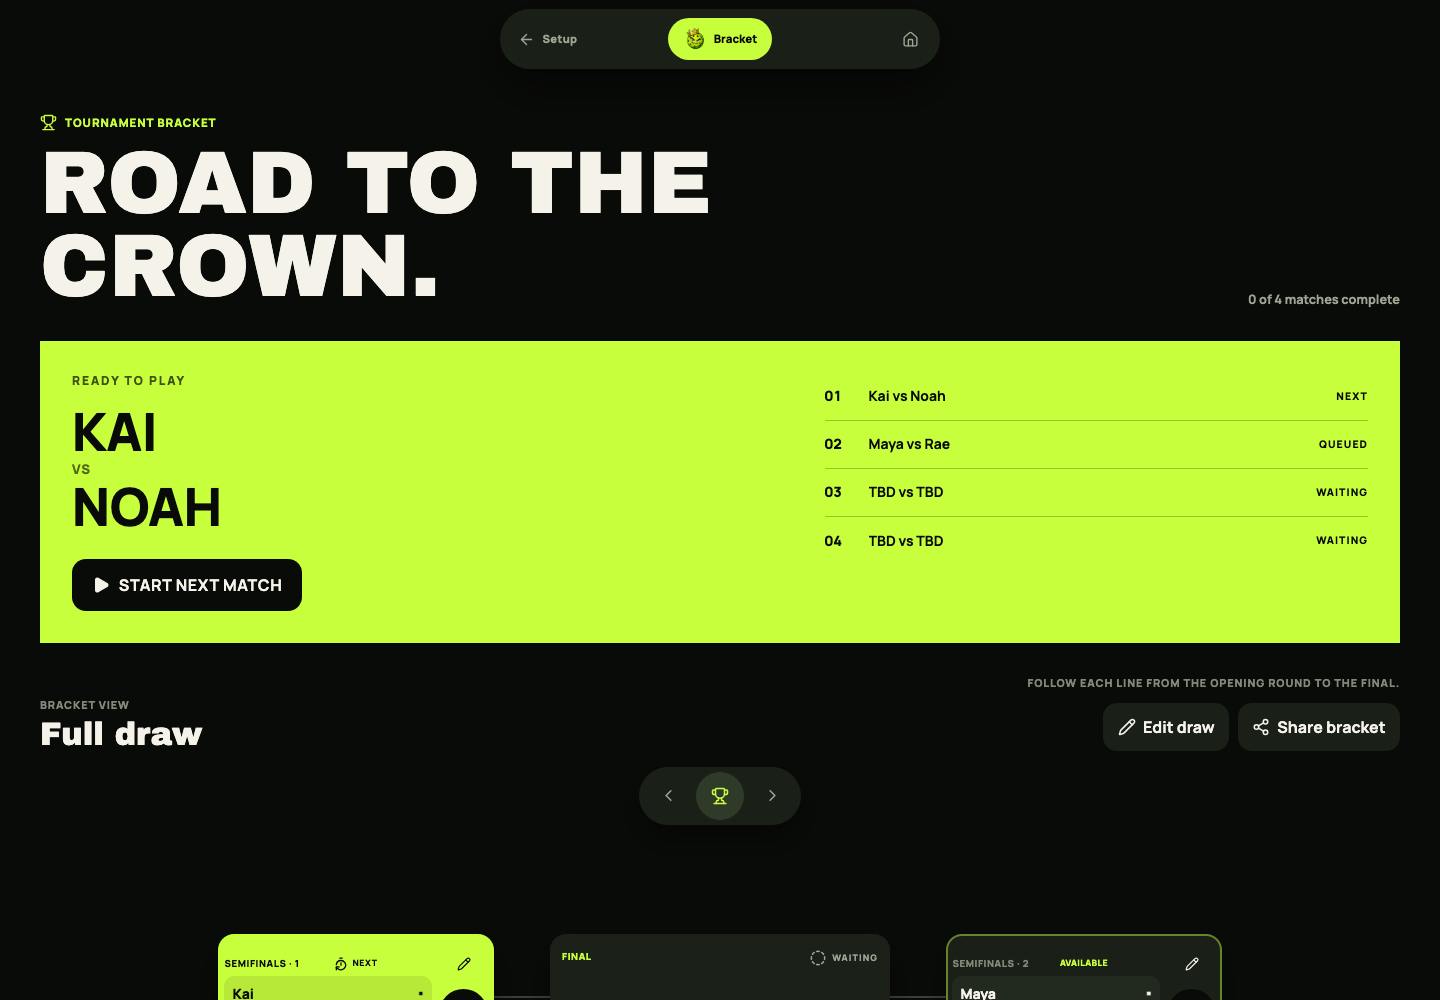
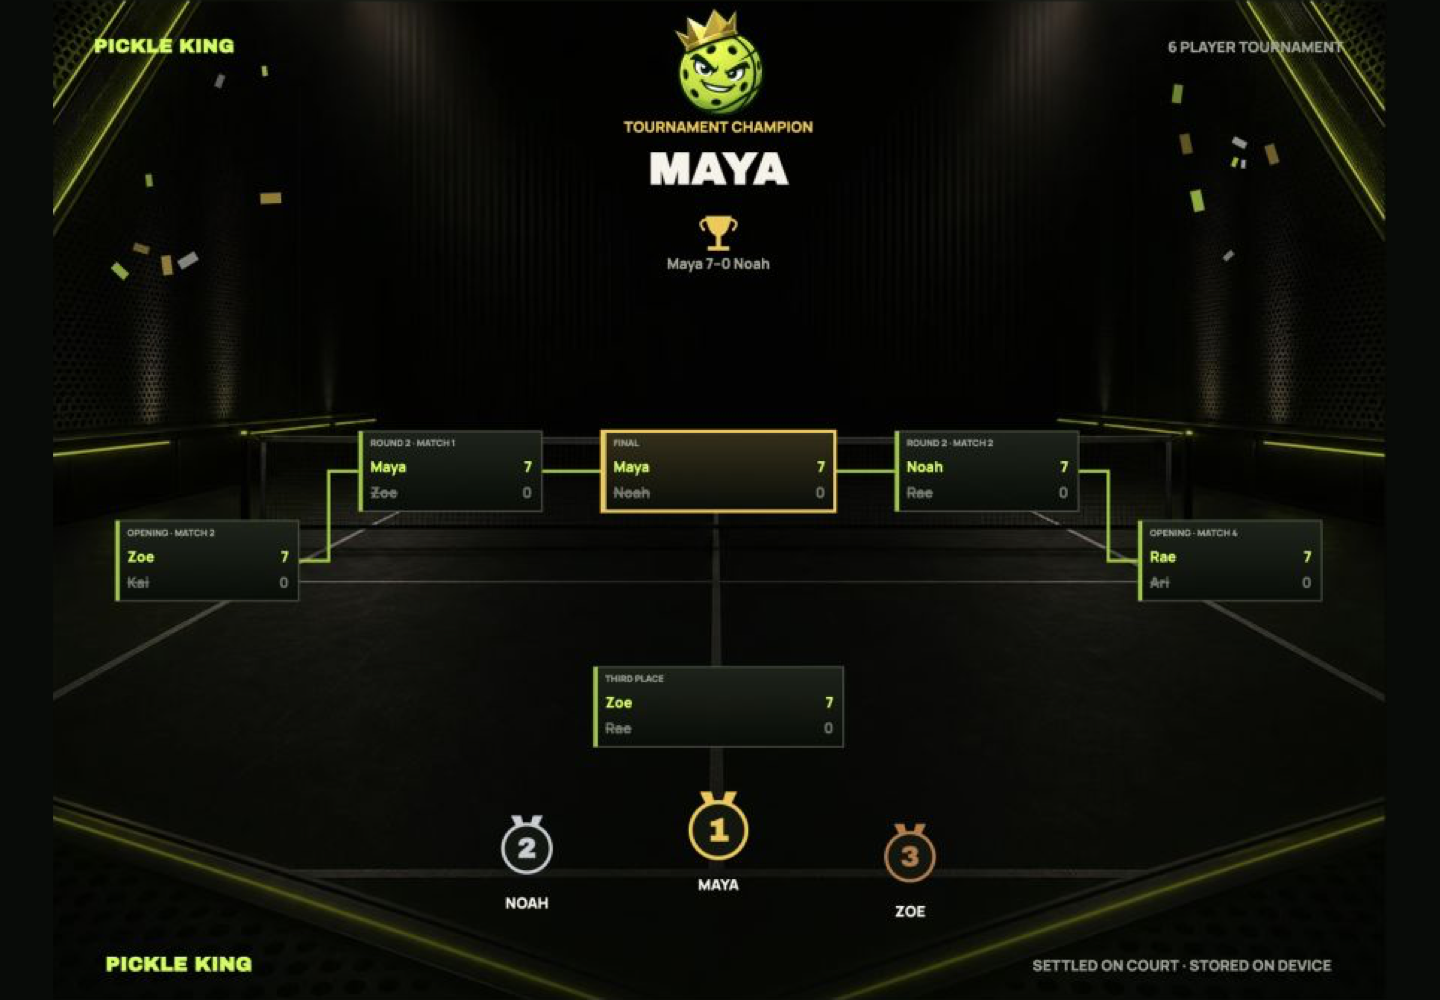
docs: refresh product screenshots

diff --git a/README.md b/README.md
@@ -35,9 +35,12 @@ the schedule, and save or share the result—all on the device in your hands.
 ## Screens
 
 <p align="center">
-  <img src="docs/images/readme/home.png" width="32%" alt="Pickle King home screen with tournament and quick-match actions">
-  <img src="docs/images/readme/scoring.png" width="32%" alt="Pickle King live scoring screen with two player scores and match controls">
-  <img src="docs/images/readme/bracket.png" width="32%" alt="Pickle King tournament bracket with the next match and full draw">
+  <img src="docs/images/readme/home.png" width="49%" alt="Pickle King home screen with tournament and quick-match actions">
+  <img src="docs/images/readme/scoring.png" width="49%" alt="Pickle King live doubles scoring screen with the active server and court position">
+</p>
+<p align="center">
+  <img src="docs/images/readme/bracket.png" width="49%" alt="Pickle King six-player tournament bracket with the final ready">
+  <img src="docs/images/readme/results.png" width="49%" alt="Pickle King completed tournament results screen showing the champion">
 </p>
 
 ## Run it locally
